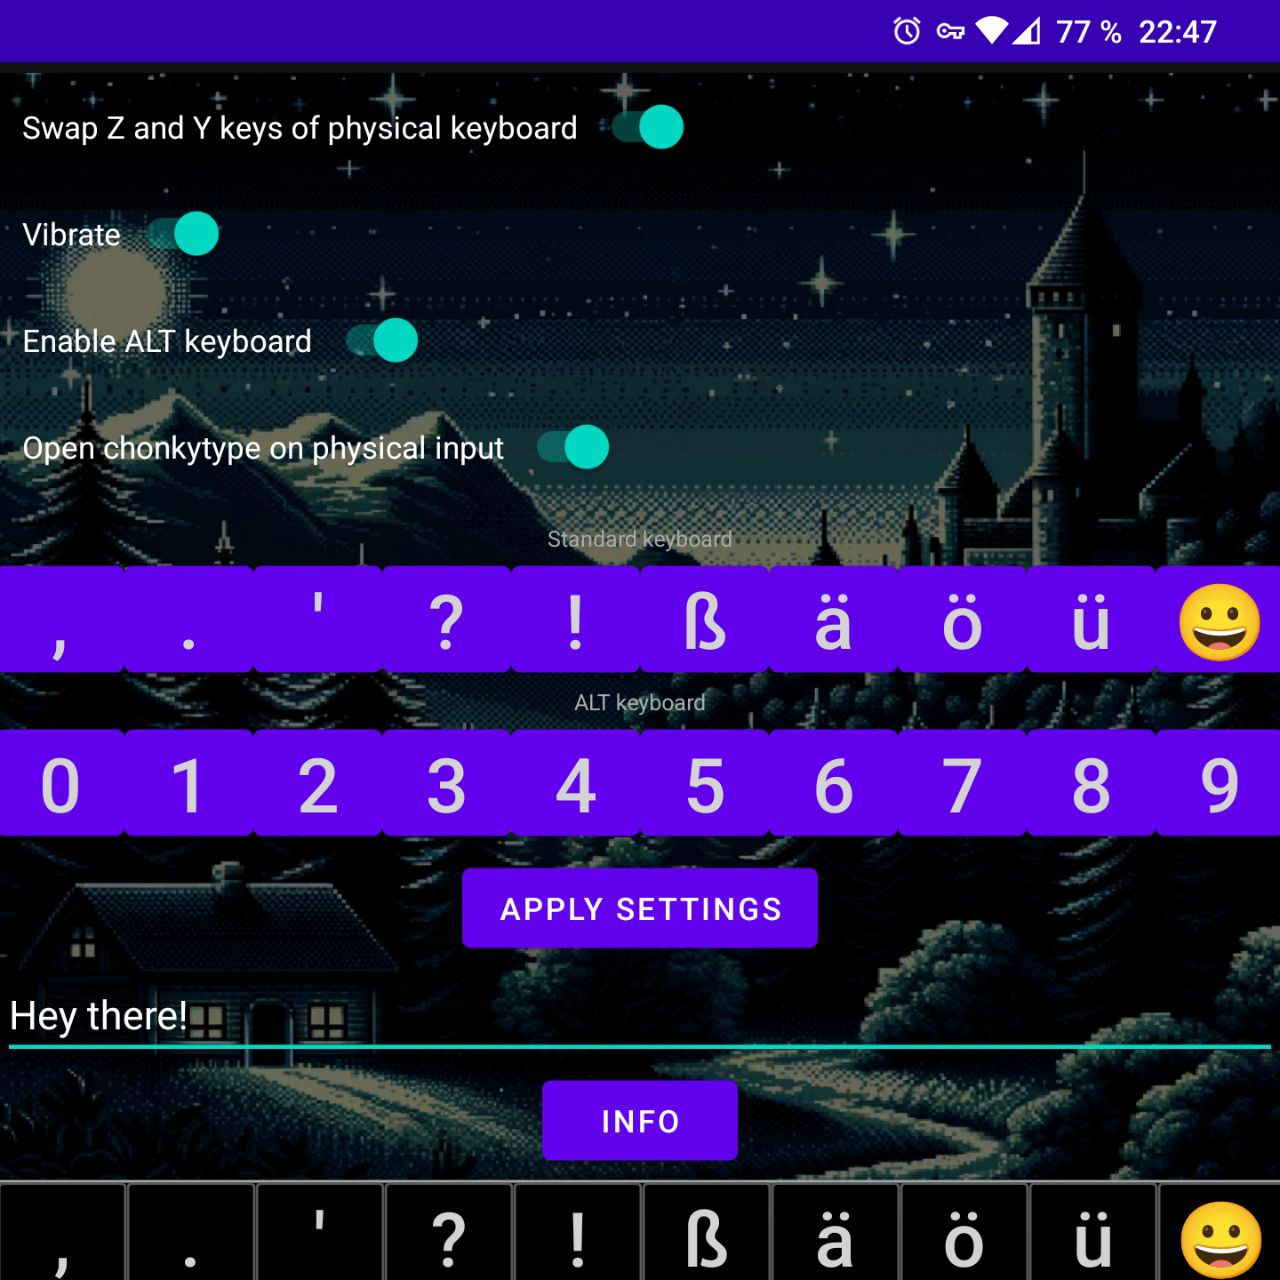
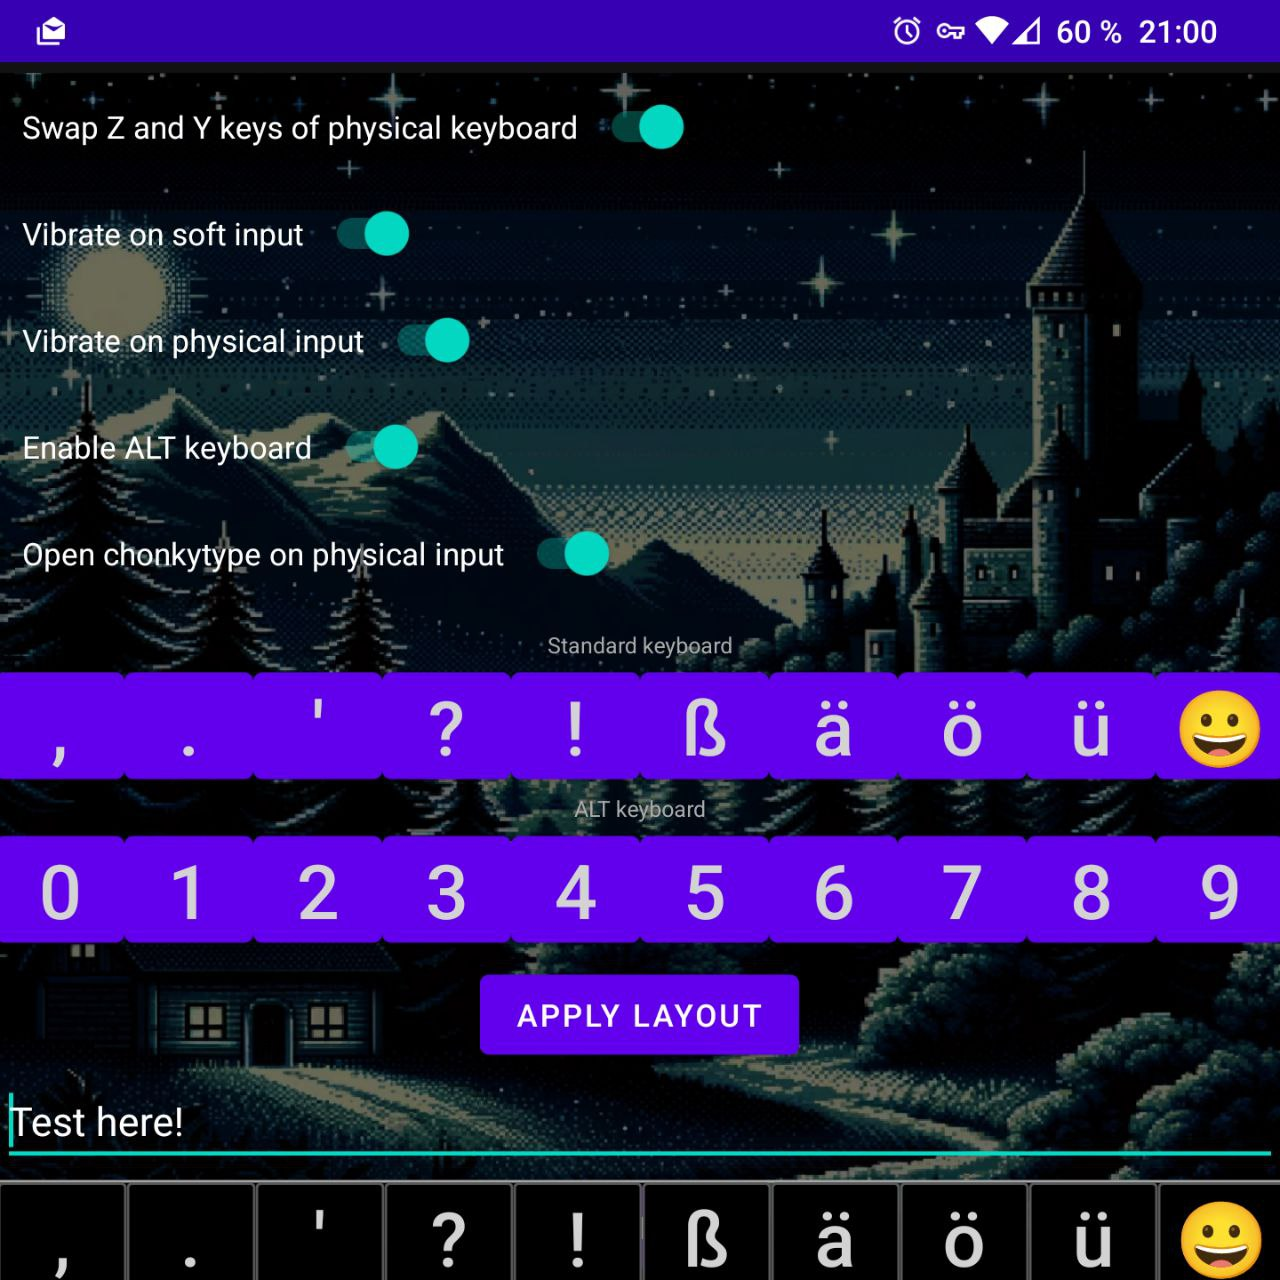
added option to vibrate on physical input

diff --git a/app/src/main/java/com/chonkytype/chonkytype/KeyboardService.kt b/app/src/main/java/com/chonkytype/chonkytype/KeyboardService.kt
@@ -10,7 +10,6 @@ import android.inputmethodservice.InputMethodService
 import android.os.Build
 import android.os.VibrationEffect
 import android.os.Vibrator
-import android.util.Log
 import android.view.KeyCharacterMap
 import android.view.KeyEvent
 import android.view.View
@@ -19,8 +18,8 @@ import android.view.inputmethod.InputMethodManager
 import android.widget.Button
 import android.widget.LinearLayout
 import android.widget.ScrollView
-import android.widget.Toast
 import java.util.Locale
+
 
 class KeyboardService : InputMethodService() {
     private lateinit var vibrator: Vibrator
@@ -28,10 +27,11 @@ class KeyboardService : InputMethodService() {
     private var isShiftPressed = false
     private var isSwapEnabled = false
     private var shouldVibrate = true
+    private var shouldPhysiVibrate = true
     private var isAltKeyboardEnabled = false
     private var isAltPressed = false
     private var isEmojiMenuOpen = false
-
+    private var isKeyBeingPressed = false
     /*
     private val updateReceiver = object : BroadcastReceiver() {
         override fun onReceive(context: Context?, intent: Intent?) {
@@ -87,6 +87,7 @@ class KeyboardService : InputMethodService() {
         val sharedPreferences = getSharedPreferences("com.chonkytype.chonkytype_preferences", Context.MODE_PRIVATE)
         isSwapEnabled = sharedPreferences.getBoolean("swap_keys", false)
         shouldVibrate = sharedPreferences.getBoolean("vibrate", true)
+        shouldPhysiVibrate = sharedPreferences.getBoolean("physivibrate", true)
         isAltKeyboardEnabled = sharedPreferences.getBoolean("altkeyboard", false)
     }
 
@@ -148,7 +149,7 @@ class KeyboardService : InputMethodService() {
 
     override fun onKeyUp(keyCode: Int, event: KeyEvent): Boolean {
 
-
+        isKeyBeingPressed = false
 
 
         if (keyCode == KeyEvent.KEYCODE_ALT_LEFT || keyCode == KeyEvent.KEYCODE_ALT_RIGHT) {
@@ -194,15 +195,27 @@ class KeyboardService : InputMethodService() {
             showOnScreenKeyboard()
         }
 
-        //val keyLabel = KeyEvent.keyCodeToString(keyCode)
+
+        if (!isKeyBeingPressed && event.deviceId != KeyCharacterMap.VIRTUAL_KEYBOARD) {
+            if (shouldVibrateOnPhysicalInput() && keyCode != KeyEvent.KEYCODE_ALT_LEFT && keyCode != KeyEvent.KEYCODE_ALT_RIGHT && keyCode != KeyEvent.KEYCODE_SHIFT_LEFT && keyCode != KeyEvent.KEYCODE_SHIFT_RIGHT) {
+                vibrate()
+                isKeyBeingPressed = true
+            }
+        }
+/*
+        if (!isKeyBeingPressed && event.deviceId != KeyCharacterMap.VIRTUAL_KEYBOARD) {
+            if (shouldVibrateOnPhysicalInput()) {
+                vibrate()
+                isKeyBeingPressed = true
+            }
+        }
+*/
 
         isShiftPressed = event.isShiftPressed
 
         if (keyCode == KeyEvent.KEYCODE_ALT_RIGHT) {
-
             isAltPressed = true
             if (isAltKeyboardEnabled) {
-
                 toggleAltKeyboard(true)
             }
             return true
@@ -214,15 +227,19 @@ class KeyboardService : InputMethodService() {
                     KeyEvent.KEYCODE_Z -> {
                         val textToInput = if (isAltPressed) "!" else "y"
                         inputText(textToInput, isShiftPressed, fromPhysicalKeyboard = true)
+
                         return true
                     }
                     KeyEvent.KEYCODE_Y -> {
                         val textToInput = if (isAltPressed) ")" else "z"
                         inputText(textToInput, isShiftPressed, fromPhysicalKeyboard = true)
+
                         return true
                     }
                 }
             }
+
+
         }
 
         if (keyCode == KeyEvent.KEYCODE_SHIFT_LEFT || keyCode == KeyEvent.KEYCODE_SHIFT_RIGHT) {
@@ -233,6 +250,7 @@ class KeyboardService : InputMethodService() {
 
         return super.onKeyDown(keyCode, event)
     }
+
 
 
 
@@ -457,9 +475,15 @@ class KeyboardService : InputMethodService() {
         if (!fromPhysicalKeyboard && shouldVibrate()) {
             vibrate()
         }
-    } fun shouldVibrate(): Boolean {
+    }
+    fun shouldVibrate(): Boolean {
         val sharedPreferences = getSharedPreferences("com.chonkytype.chonkytype_preferences", Context.MODE_PRIVATE)
         return sharedPreferences.getBoolean("vibrate", true)
+    }
+
+    fun shouldVibrateOnPhysicalInput(): Boolean {
+        val sharedPreferences = getSharedPreferences("com.chonkytype.chonkytype_preferences", Context.MODE_PRIVATE)
+        return sharedPreferences.getBoolean("physivibrate", true)
     }
 
     private fun vibrate() {

diff --git a/app/src/main/java/com/chonkytype/chonkytype/settings.kt b/app/src/main/java/com/chonkytype/chonkytype/settings.kt
@@ -61,7 +61,7 @@ class SettingsActivity : AppCompatActivity() {
         applyLayoutButton.setOnClickListener {
 
             notifyKeyboardService()
-            Toast.makeText(this, "Settings applied!", Toast.LENGTH_SHORT).show()
+            Toast.makeText(this, "Layout applied!", Toast.LENGTH_SHORT).show()
         }
 
 
@@ -84,6 +84,17 @@ class SettingsActivity : AppCompatActivity() {
             }
             notifyKeyboardService()
         }
+
+        val physivibrate = findViewById<SwitchCompat>(R.id.physivibrate)
+        physivibrate.isChecked = sharedPreferences.getBoolean("physivibrate", true)
+        physivibrate.setOnCheckedChangeListener { _, isChecked ->
+            with(sharedPreferences.edit()) {
+                putBoolean("physivibrate", isChecked)
+                apply()
+            }
+            notifyKeyboardService()
+        }
+
 
         val swapKeysSwitch = findViewById<SwitchCompat>(R.id.switch_swap_keys)
         swapKeysSwitch.isChecked = sharedPreferences.getBoolean("swap_keys", false)
@@ -181,7 +192,7 @@ class SettingsActivity : AppCompatActivity() {
                 "...and everyone else on the unihertz Titan discord server!\n" +
                 "\n" +
                 "Thanks to modulizer for github.com/modularizer/HelloWorldKeyboard!\n\n" +
-                "v1.0 - github.com/chonkytype")
+                "v1.1 - github.com/chonkytype")
         builder.setPositiveButton("OK") { dialog, _ -> dialog.dismiss() }
         builder.show()
     }
